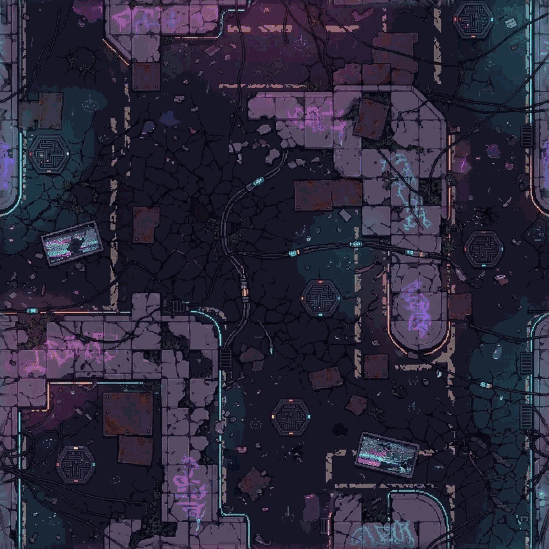
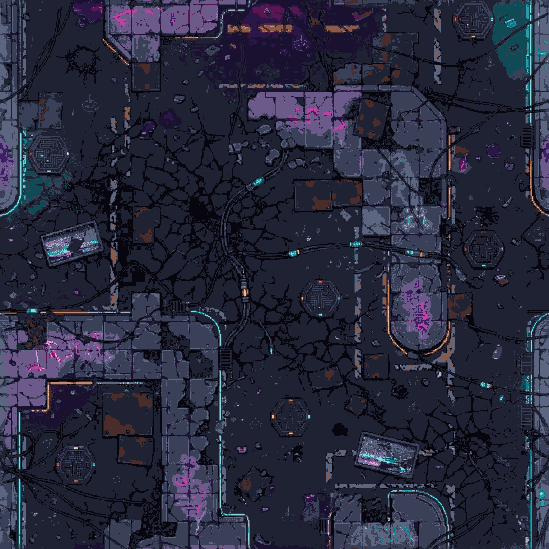
Backgrounds use the 39-colour character palette (chapter 1/2 grounds, hideout/title)
Claude-Session: https://claude.ai/code/session_01KZt8jDAL2wEEWPwKQF5Ffo

diff --git a/tools/art/ground_from_ref.py b/tools/art/ground_from_ref.py
@@ -3,10 +3,10 @@
   이음새 근처만 살짝 섞어 끊김을 없앤다.
 - 2챕터: 컨베이어 띠가 게임 판정(game.json zoneRules.conveyor: period마다 band)과 정확히 겹치도록
   원본의 띠 간격(308px)을 period(176)로 맞춰 줄 단위로 다시 쌓는다. 높이 = period x 6.
-- 둘 다 BOX 축소 후 128색으로 줄인다 (아지트 배경과 같은 방식).
+- BOX 축소 후 캐릭터와 같은 39색 팔레트(palx.PALX)로 칠한다. 아지트 배경도 같은 방식.
 사용: python3 tools/art/ground_from_ref.py
 """
-import json, os
+import json, os, sys
 import numpy as np
 from PIL import Image
 
@@ -23,11 +23,34 @@ def shrink(a, w, h):
     return np.asarray(Image.fromarray(a.clip(0, 255).astype(np.uint8)).resize((w, h), Image.BOX), np.float32)
 
 
+sys.path.insert(0, os.path.join(ROOT, 'tools', 'art', 'sprites2026', 'scripts', 'ext'))
+from palx import PALX  # 캐릭터·적 스프라이트와 같은 39색 팔레트
+
+PAL = np.array(PALX, np.float32)
+
+
+def to_lab(x):
+    x = np.clip(x, 0, 255) / 255.0
+    x = np.where(x > 0.04045, ((x + 0.055) / 1.055) ** 2.4, x / 12.92)
+    m = np.array([[0.4124, 0.3576, 0.1805], [0.2126, 0.7152, 0.0722], [0.0193, 0.1192, 0.9505]])
+    xyz = x @ m.T / np.array([0.95047, 1.0, 1.08883])
+    f = np.where(xyz > 0.008856, np.cbrt(xyz), 7.787 * xyz + 16 / 116)
+    return np.stack([116 * f[..., 1] - 16, 500 * (f[..., 0] - f[..., 1]), 200 * (f[..., 1] - f[..., 2])], -1)
+
+
+PAL_LAB = to_lab(PAL)
+
+
 def quant(a, path, dim=1.0):
-    im = Image.fromarray((a * dim).clip(0, 255).astype(np.uint8))
-    im = im.quantize(128, method=Image.Quantize.FASTOCTREE, dither=Image.Dither.NONE).convert('RGB')
+    """캐릭터 팔레트(39색)에서 가장 가까운 색으로 (Lab 거리). 바닥에는 어두운 색만 자연스럽게 골라진다."""
+    a = (a * dim).astype(np.float32)
+    flat = to_lab(a.reshape(-1, 3))
+    idx = np.empty(len(flat), int)
+    for i in range(0, len(flat), 65536):
+        idx[i:i + 65536] = ((flat[i:i + 65536, None] - PAL_LAB[None]) ** 2).sum(-1).argmin(1)
+    im = Image.fromarray(PAL[idx].reshape(a.shape).astype(np.uint8))
     im.save(path)
-    print(path, im.size)
+    print(path, im.size, 'colors', len(np.unique(idx)))
 
 
 def feather_x(a, n):
@@ -106,6 +129,13 @@ def industrial():
     quant(t, os.path.join(OUT, 'ground_industrial.png'), 0.95)
 
 
+def hideout():
+    """아지트·타이틀 배경 (480x270)."""
+    a = load('hideout_ref.png')
+    quant(shrink(a, 480, 270), os.path.join(OUT, 'hideout.png'))
+
+
 if __name__ == '__main__':
     slum()
     industrial()
+    hideout()
